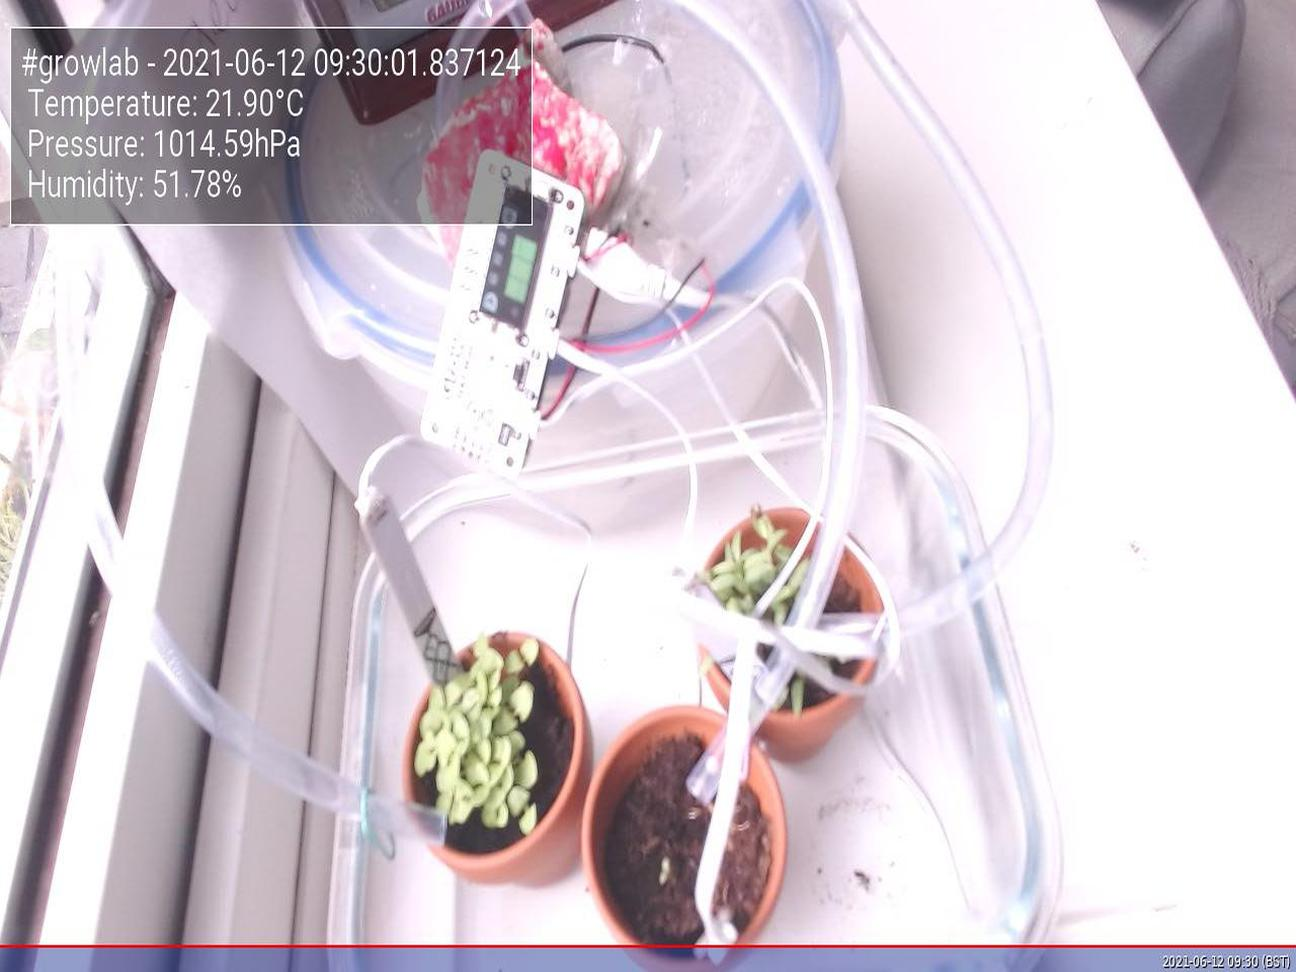
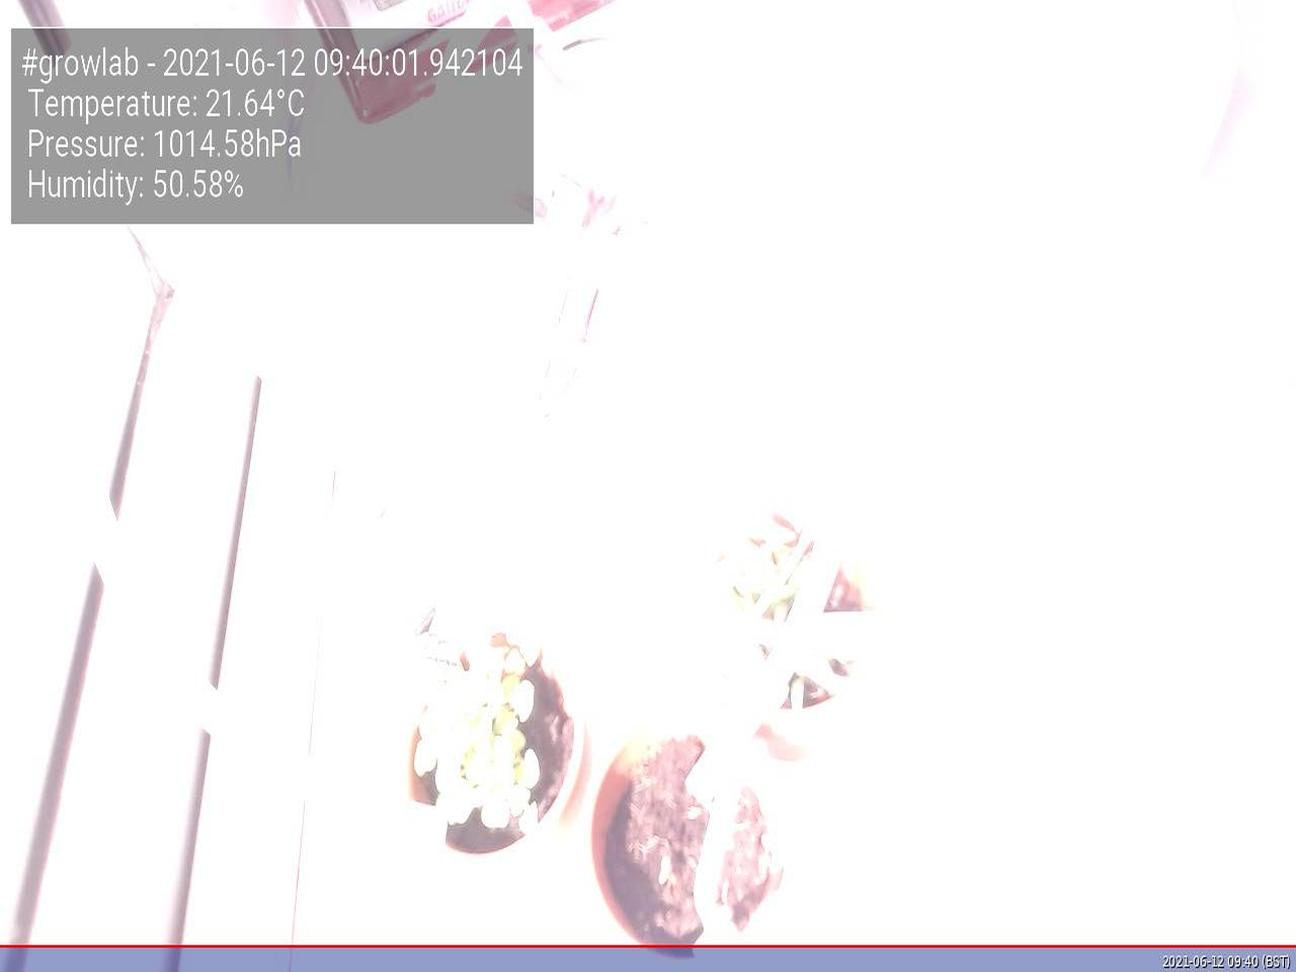
Update images at Sat 12 Jun 09:40:05 BST 2021

diff --git a/app/docs/index.html b/app/docs/index.html
@@ -47,19 +47,19 @@
                         <tbody>
                             <tr>
                                 <td>Time</td>
-                                <td>2021-06-12 09:30:01.837124</td>
+                                <td>2021-06-12 09:40:01.942104</td>
                             </tr>
                             <tr>
                                 <td>Temperature</td>
-                                <td>21.90°C</td>
+                                <td>21.64°C</td>
                             </tr>
                             <tr>
                                 <td>Humidity</td>
-                                <td>51.78%</td>
+                                <td>50.58%</td>
                             </tr>
                             <tr>
                                 <td>Pressure</td>
-                                <td>1014.59hPa</td>
+                                <td>1014.58hPa</td>
                             </tr>
                         </tbody>
                     </table>
@@ -67,7 +67,7 @@
 
                 <h5>Latest image</h5>
                 <div style="width: 85%;">
-                            <img class="figure-img img-fluid rounded" src="./preview.jpg?uid=1623486605.6003397">
+                            <img class="figure-img img-fluid rounded" src="./preview.jpg?uid=1623487205.6733057">
                 </div>
             </div>
         </div>
